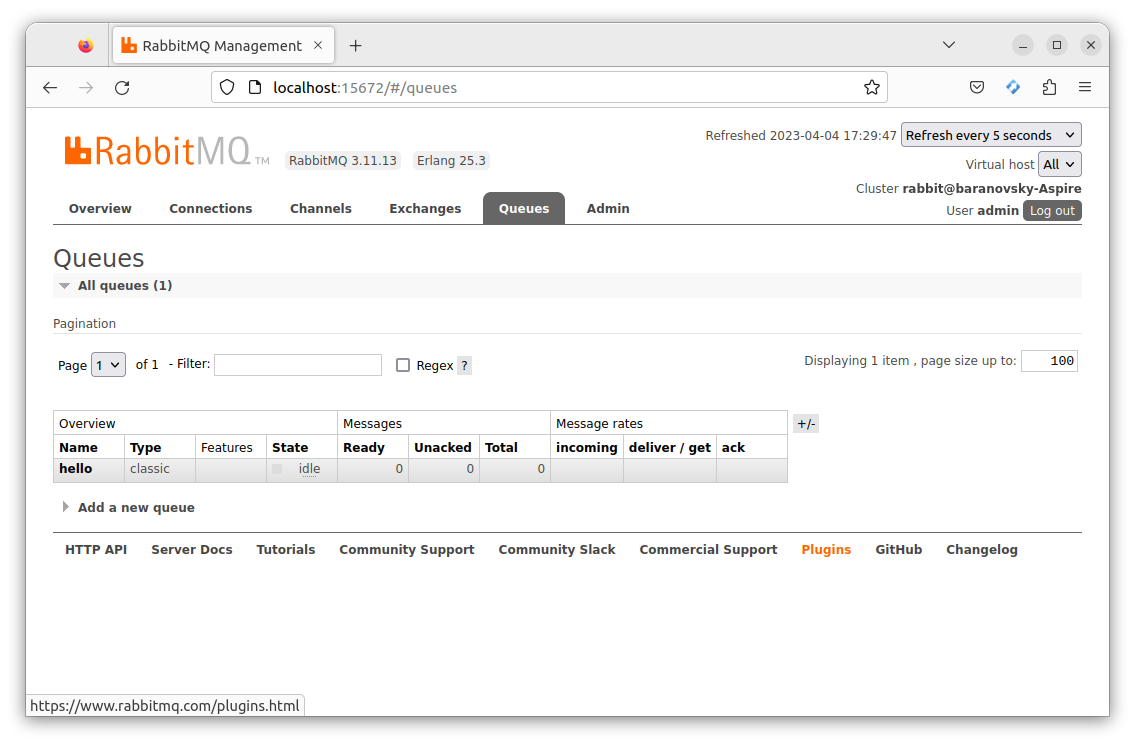
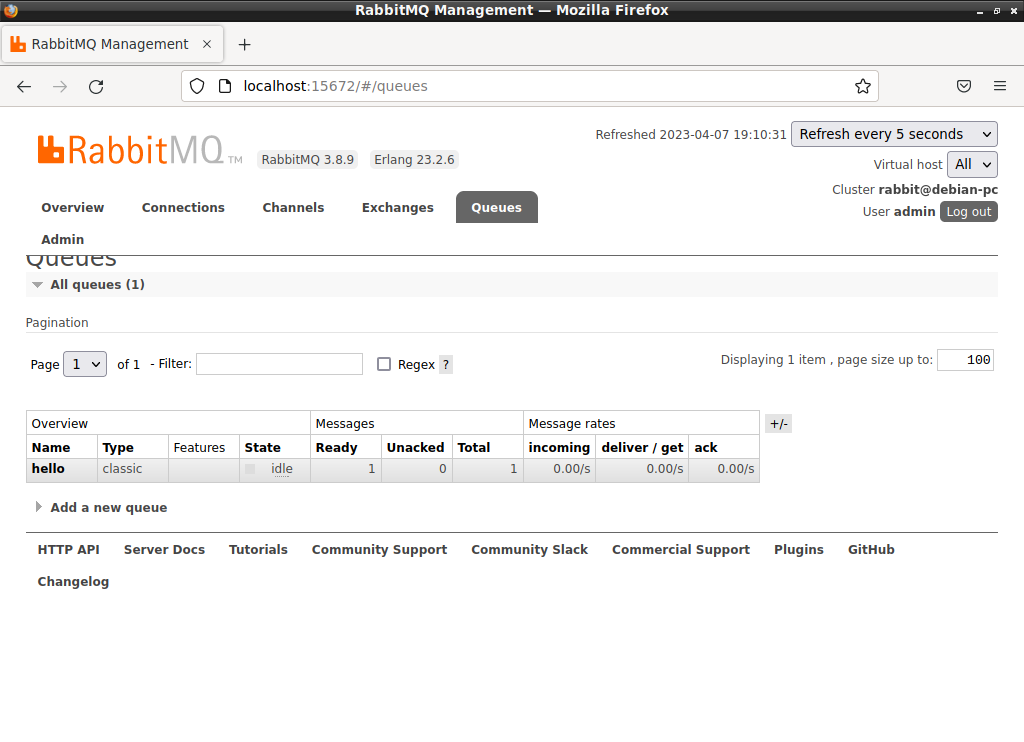
Task 2

Changed region(s): [[0.0, 0.0, 1.0, 0.9919], [0.25, 0.186, 0.5625, 0.31], [0.3438, 0.465, 0.4375, 0.527]]

diff --git a/README.md b/README.md
@@ -89,8 +89,8 @@ $ pip install pika
 # В GUI создал очередь hello
 sudo rabbitmqctl list_queues
 sudo pip install pika # Для работы с очередями
-# команда rabbitmqadmin не найдена, но должна была установится с пакетом rabbitmq-server 
-# Устанавливаю самостоятельно:
+# Для ubuntu: команда rabbitmqadmin не найдена, но должна была установится с пакетом rabbitmq-server 
+# Для ubuntu: Устанавливаю самостоятельно:
 #wget https://raw.githubusercontent.com/rabbitmq/rabbitmq-management/v3.7.8/bin/rabbitmqadmin
 wget https://raw.githubusercontent.com/rabbitmq/rabbitmq-management/v3.7.15/bin/rabbitmqadmin
 sudo chmod +x rabbitmqadmin
@@ -106,12 +106,17 @@ rabbitmqadmin delete queue name='hello'
 
 python3 producer.py
 
+# Редактирование скрипта consumer.py
+# Вместо  channel.basic_consume(callback, queue='hello', no_ack=True)
+# Заменил на  channel.basic_consume('hello', callback, auto_ack=True)
+
+python3 consumer.py
 
 ```
-### Скриншот очереди hello
-![Скриншот очереди hello](https://github.com/StanislavBaranovskii/11-4-hw/blob/main/img/11-4-2-1.png "Скриншот очереди hello")
+### Скриншот очереди hello (producer.py)
+![Скриншот очереди hello](https://github.com/StanislavBaranovskii/11-4-hw/blob/main/img/11-4-2-1.png "Скриншот очереди")
 
-### Скриншот очереди
+### Скриншот очереди hello (consumer.py)
 ![Скриншот очереди](https://github.com/StanislavBaranovskii/11-4-hw/blob/main/img/11-4-2-2.png "Скриншот очереди")
 
 ---
